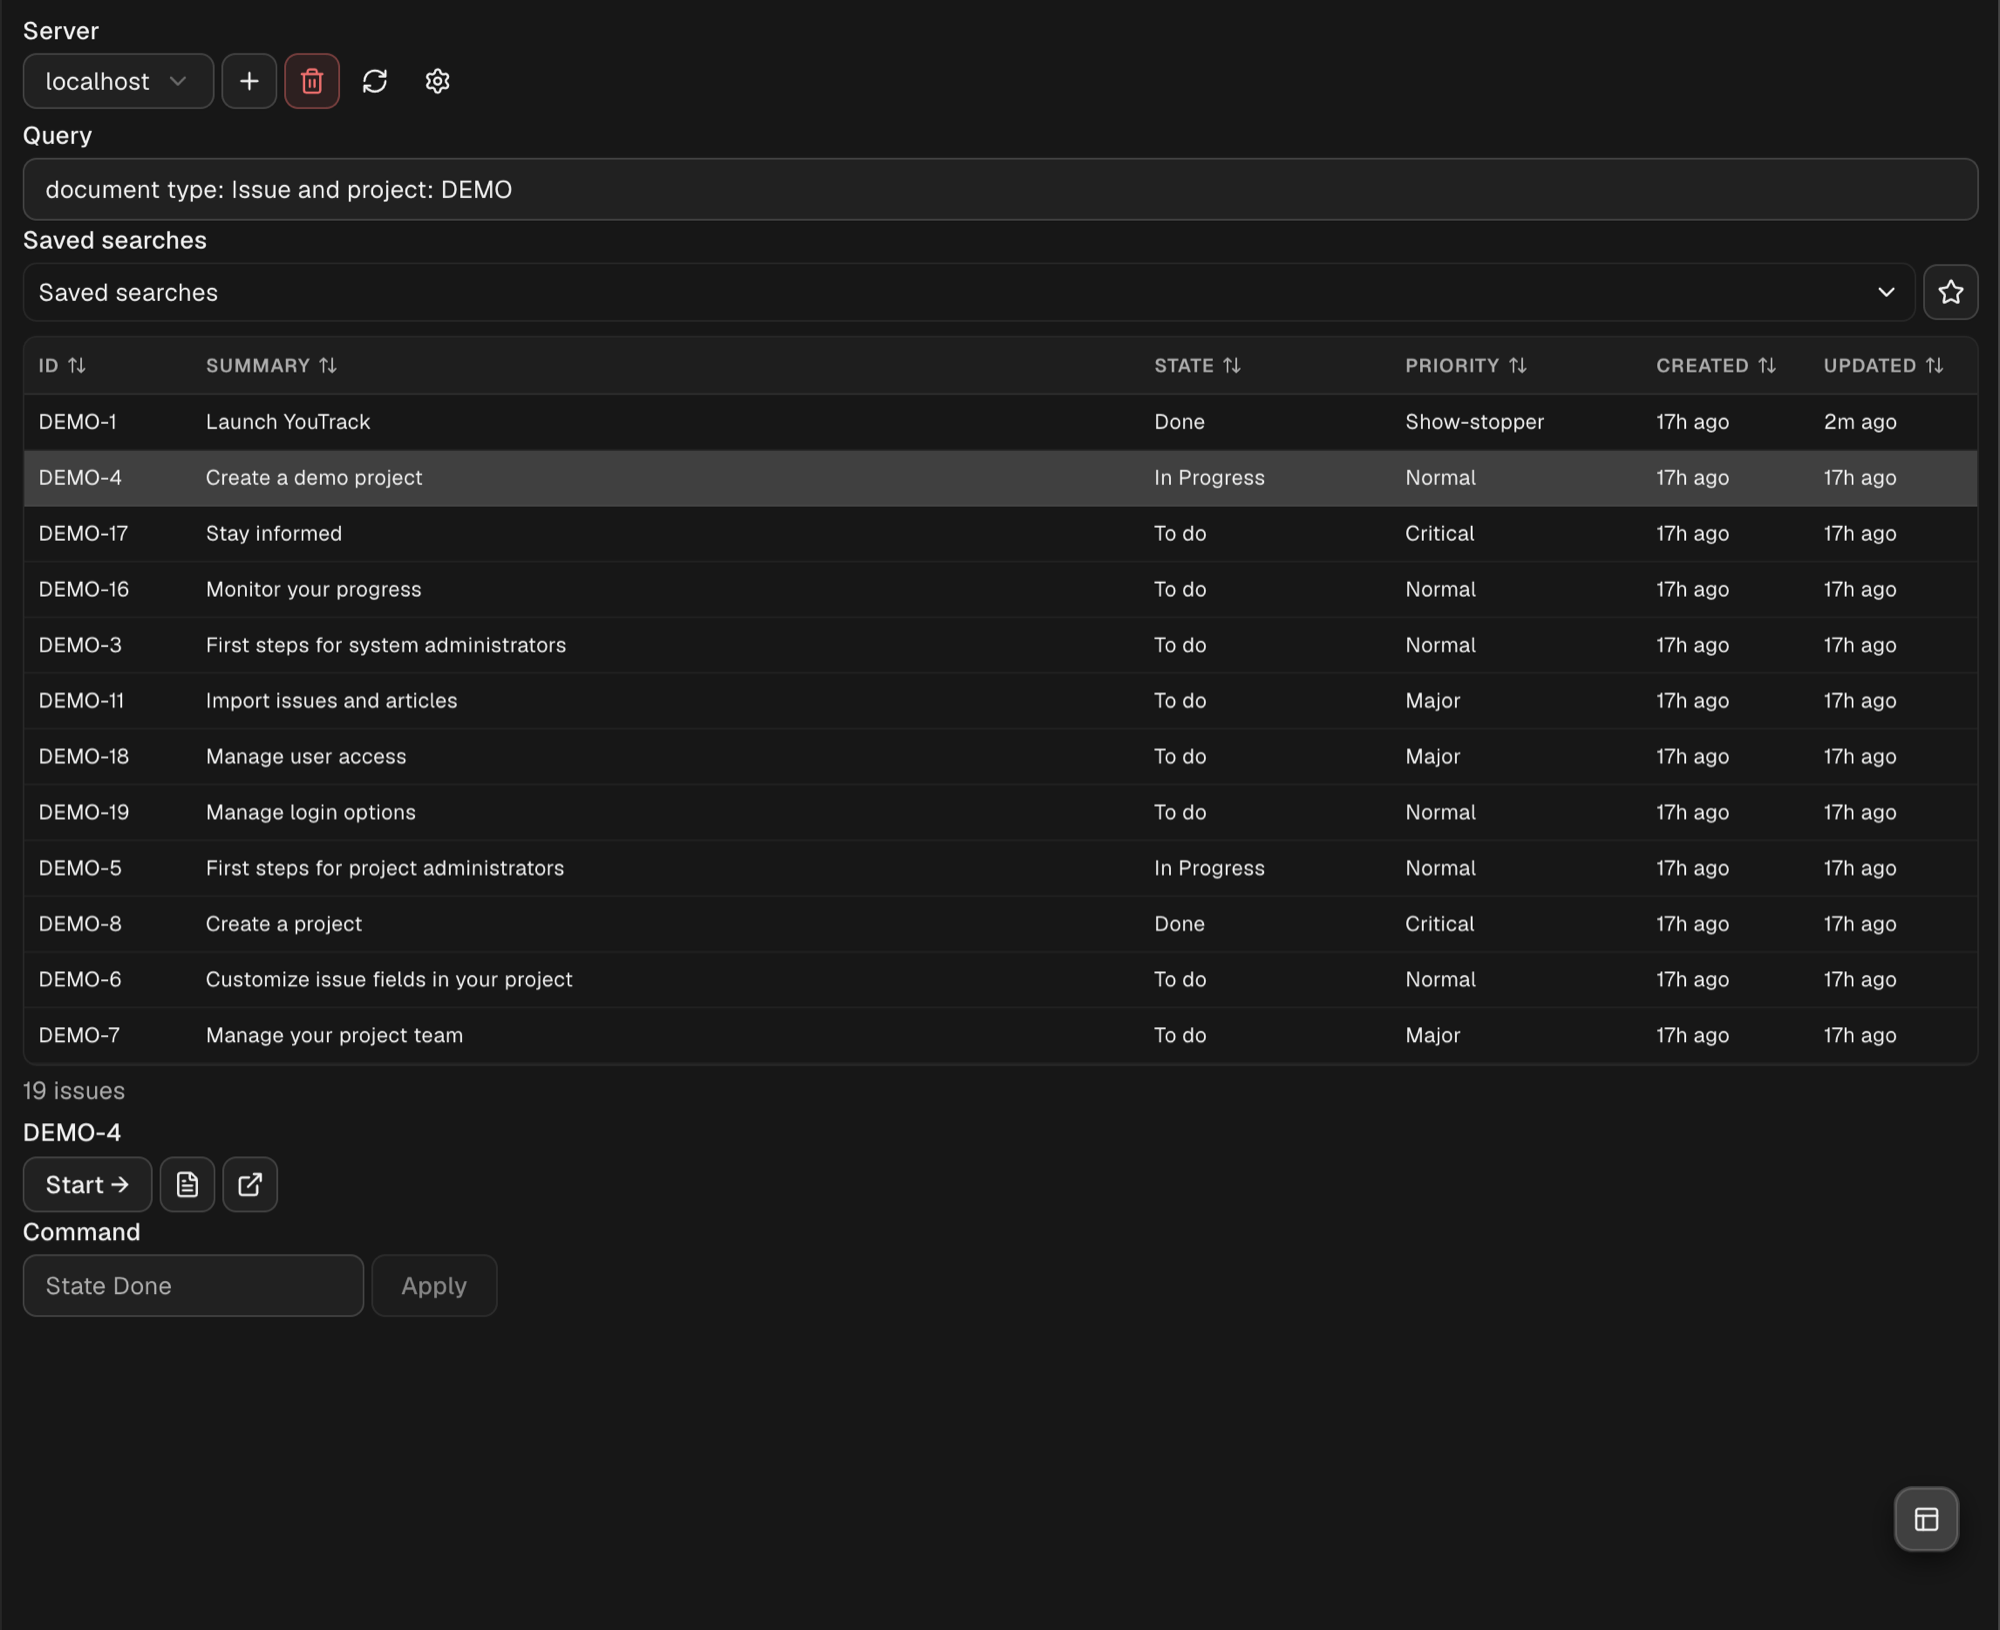
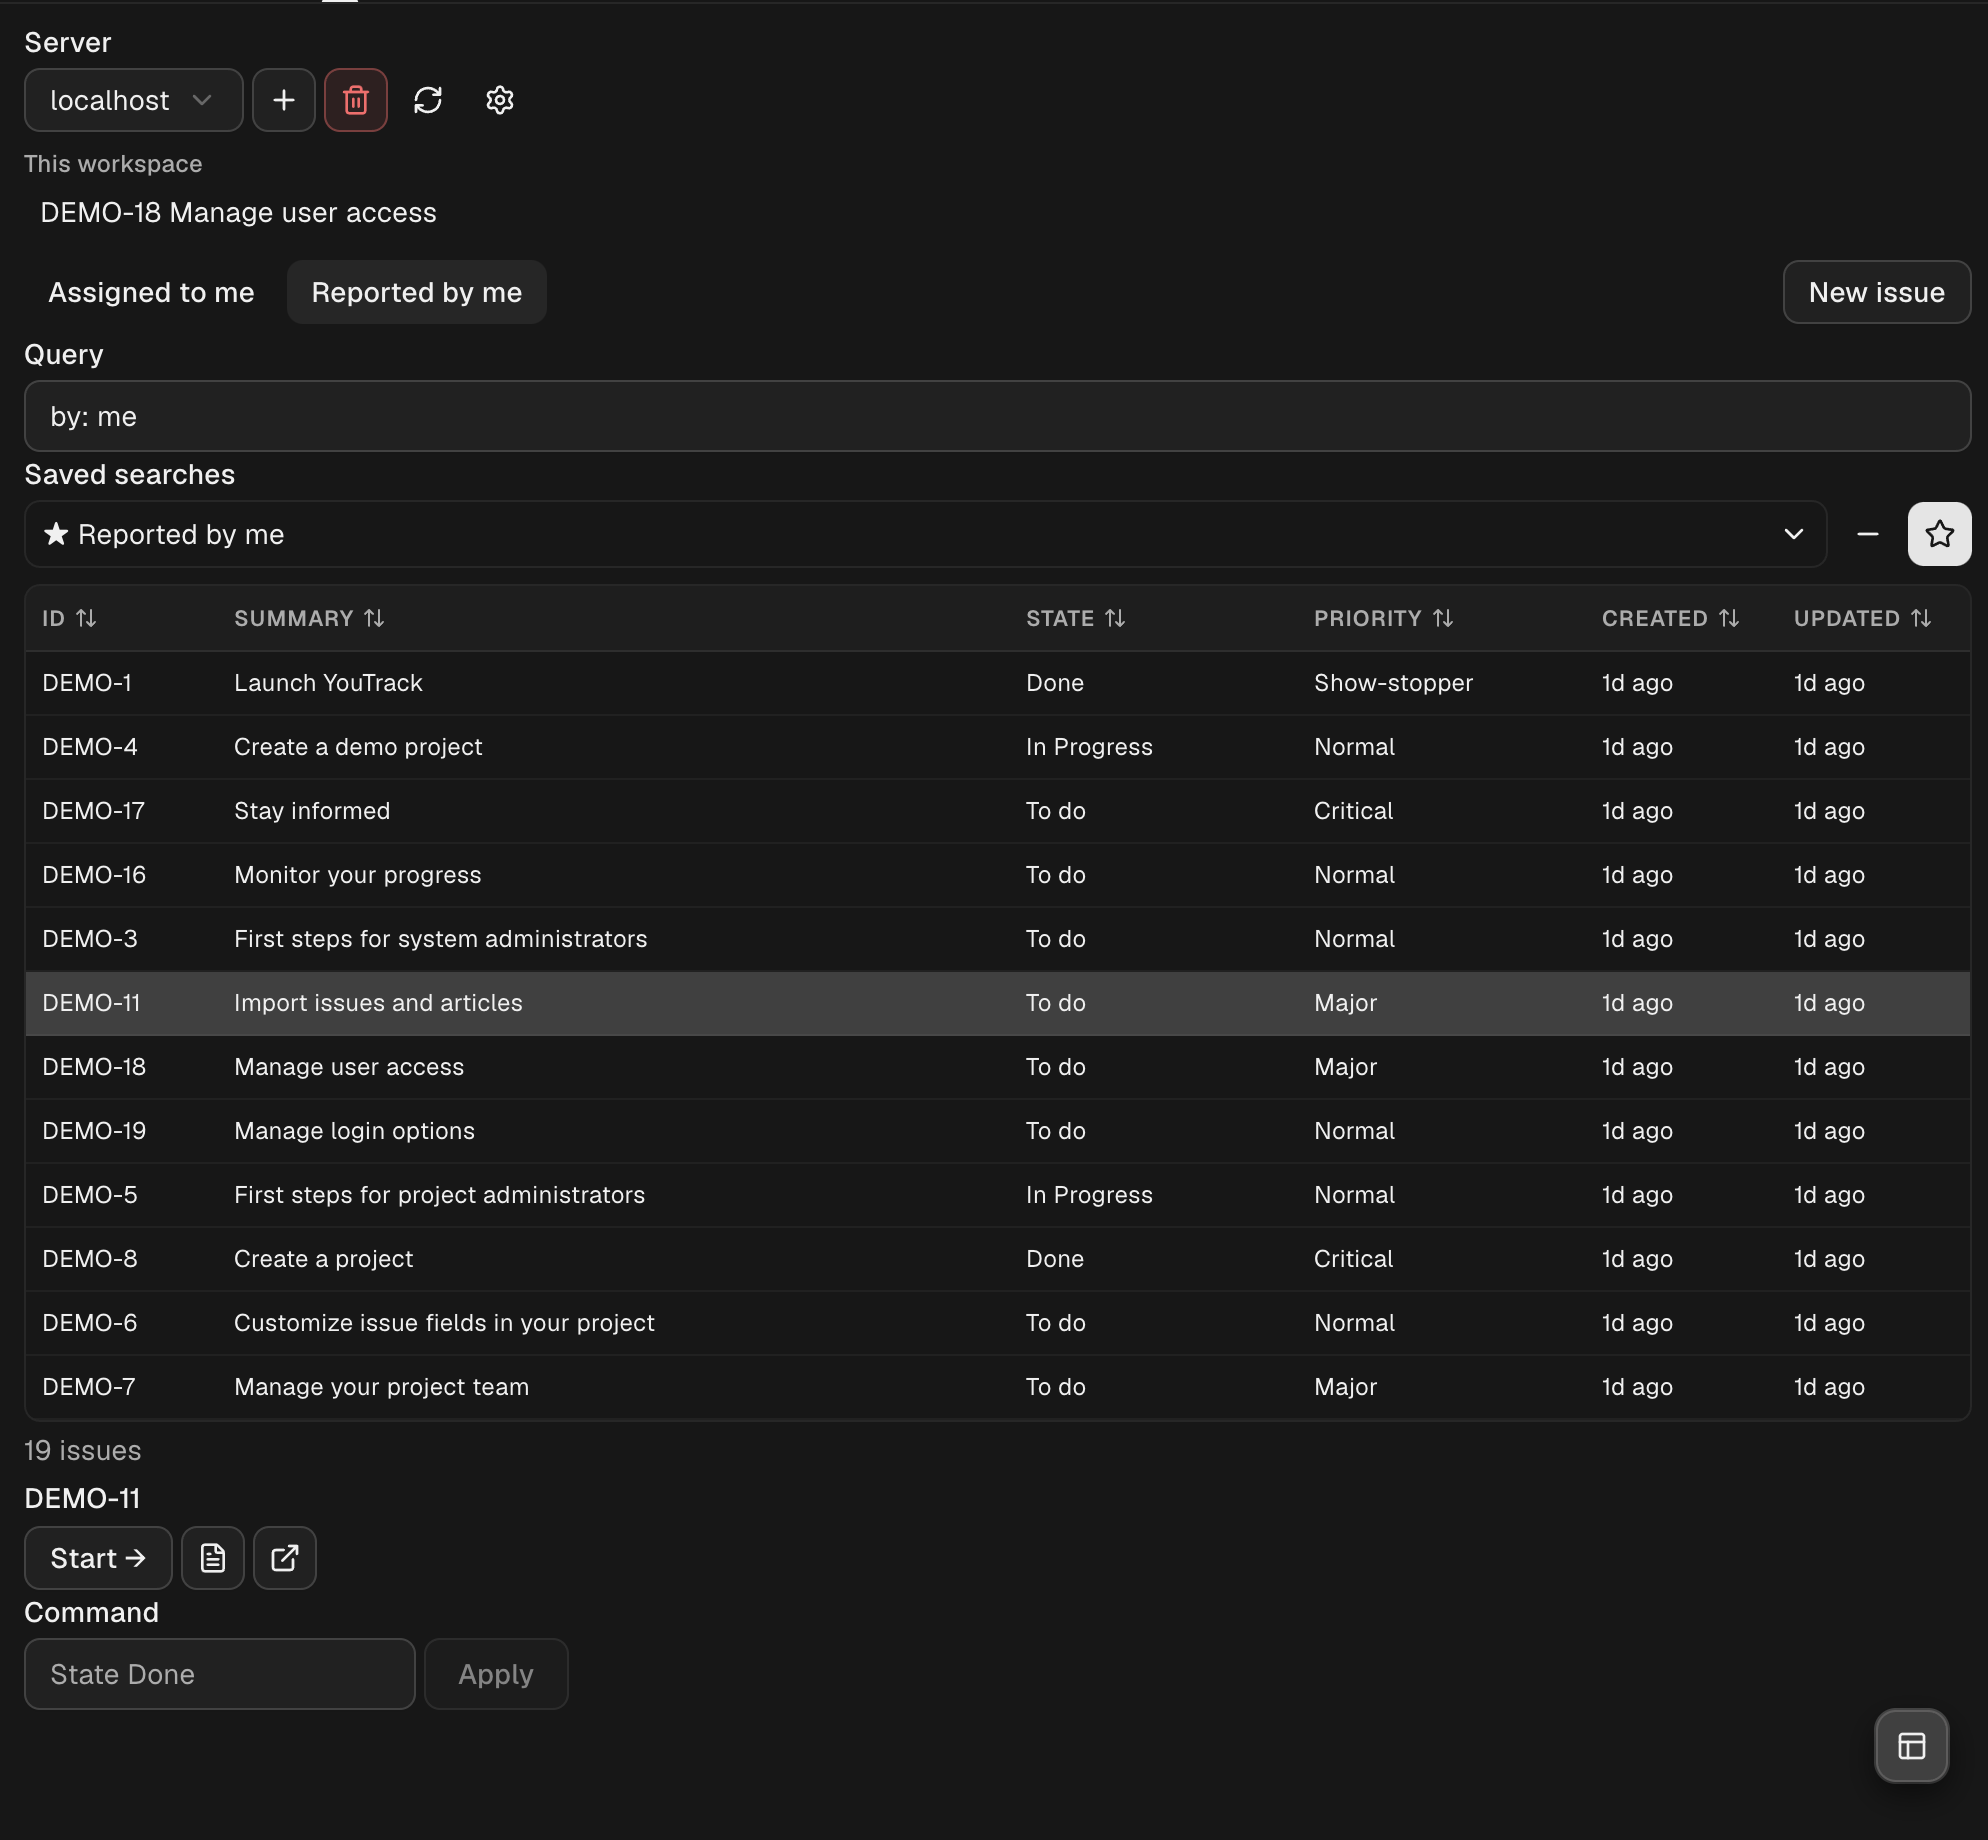
docs: refresh the screenshots and add one of the new-issue form
The issue list now shows the issue of the current workspace, quick views
and a starred saved search; the issue detail its blockers and the fields
grid; Start what the agent does when done.

diff --git a/README.md b/README.md
@@ -5,11 +5,11 @@ of them: in a new worktree or in the workspace you are in, with a prompt built f
 
 This is an unofficial plugin.
 
-![The issue list for a YouTrack query, with saved searches, sortable columns and the actions of the selected issue](images/issues.png)
+![The issue list: the issue of this workspace, quick views, the query, starred saved searches, sortable columns and the actions of the selected issue](images/issues.png)
 
-| Issue details | Start work on an issue |
-| --- | --- |
-| ![The detail of an issue: creator, tags, Apply command, fields, description, linked issues and comments](images/issue-detail.png) | ![The Start view: Run in New worktree, project, name, Create from, workspace, agent, the prompt switches, template and the editable prompt](images/start.png) |
+| Issue details | Start work on an issue | New issue |
+| --- | --- | --- |
+| ![The detail of an issue: creator, its blockers, Apply command, the fields grid with drop-downs, description, linked issues and comments](images/issue-detail.png) | ![The Start view: where to run, project, name, workspace, agent, the prompt switches, template, what the agent does when done and the editable prompt](images/start.png) | ![The New issue form: project, summary, description, the required fields of the project with their defaults, and More fields](images/create.png) |
 
 ## Install
 
